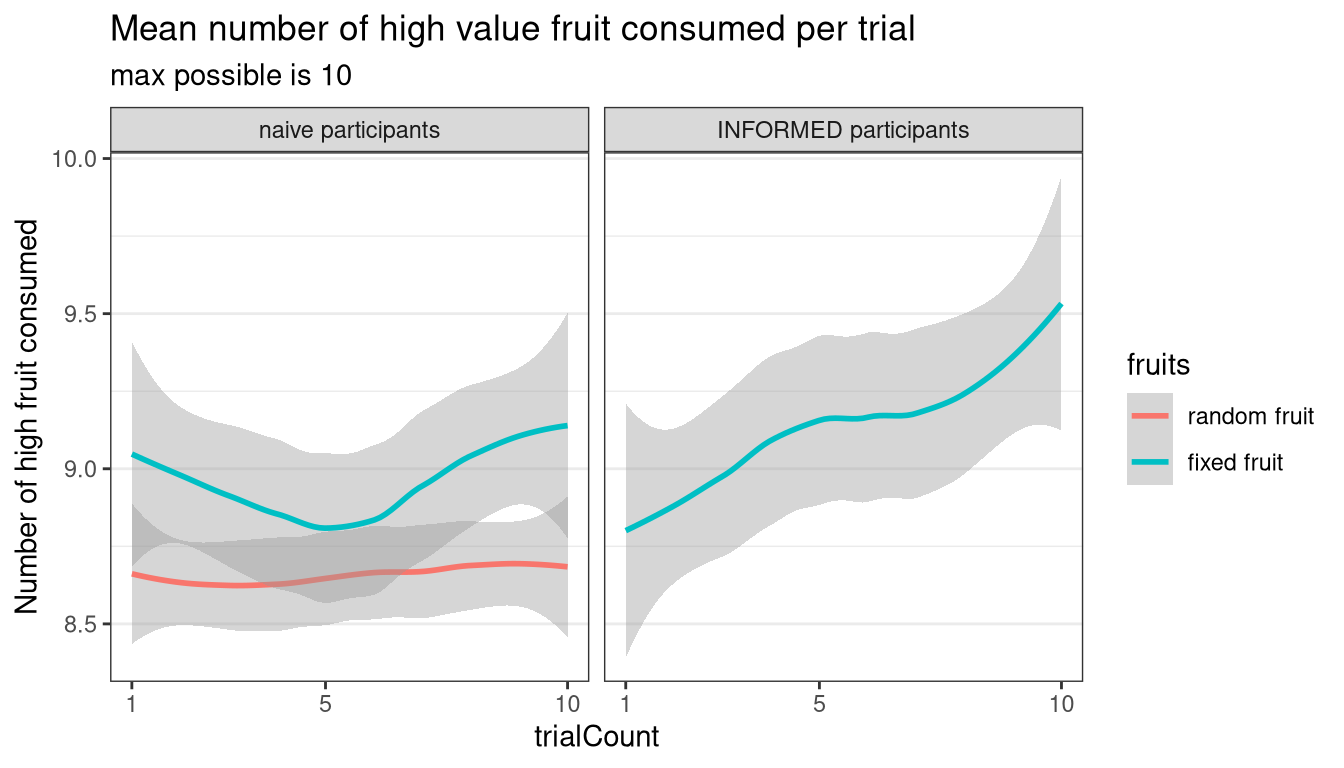
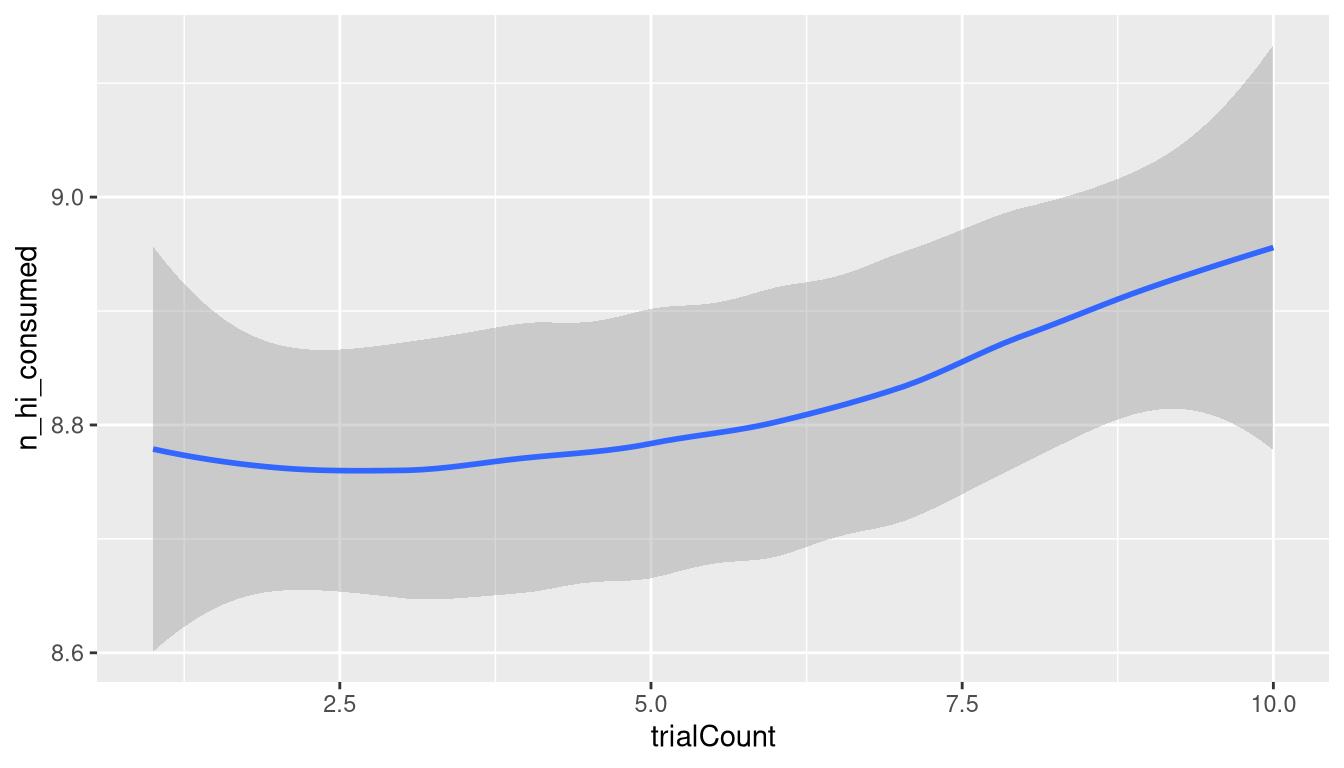
fg more plots

diff --git a/index.html b/index.html
@@ -931,17 +931,82 @@ language      word nonword
 </section>
 <section class="slide level2">
 
+<p>Quick and dirty first: slight improvement over trials before we distinguish between the conditions</p>
 <div class="cell">
-<div class="sourceCode cell-code" id="cb37"><pre class="sourceCode numberSource r number-lines code-with-copy"><code class="sourceCode r"><span id="cb37-1"><a href="#cb37-1"></a><span class="fu">ggplot</span>(data_foraging, <span class="fu">aes</span>(<span class="at">y=</span>n_hi_consumed, <span class="at">x=</span>trialCount, <span class="at">color=</span>fruits))<span class="sc">+</span></span>
-<span id="cb37-2"><a href="#cb37-2"></a>  <span class="fu">facet_grid</span>(<span class="sc">~</span>instructions)<span class="sc">+</span></span>
-<span id="cb37-3"><a href="#cb37-3"></a>  <span class="fu">geom_smooth</span>()<span class="sc">+</span></span>
-<span id="cb37-4"><a href="#cb37-4"></a>  <span class="fu">scale_x_continuous</span>(<span class="at">breaks=</span><span class="fu">c</span>(<span class="dv">1</span>,<span class="dv">5</span>,<span class="dv">10</span>))<span class="sc">+</span></span>
-<span id="cb37-5"><a href="#cb37-5"></a>  <span class="fu">ylab</span>(<span class="st">"Number of high fruit consumed"</span>)<span class="sc">+</span></span>
-<span id="cb37-6"><a href="#cb37-6"></a>  <span class="fu">labs</span>(<span class="at">title=</span><span class="st">"Mean number of high value fruit consumed per trial"</span>,<span class="at">subtitle =</span> <span class="st">"max possible is 10"</span>)<span class="sc">+</span></span>
-<span id="cb37-7"><a href="#cb37-7"></a>  <span class="fu">theme_bw</span>() <span class="sc">+</span> <span class="fu">theme</span>(<span class="at">panel.grid.major.x =</span> <span class="fu">element_blank</span>(), <span class="at">panel.grid.minor.x =</span> <span class="fu">element_blank</span>())</span></code><button title="Copy to Clipboard" class="code-copy-button"><i class="bi"></i></button></pre></div>
+<div class="sourceCode cell-code" id="cb37"><pre class="sourceCode numberSource r number-lines code-with-copy"><code class="sourceCode r"><span id="cb37-1"><a href="#cb37-1"></a><span class="fu">ggplot</span>(data_foraging, <span class="fu">aes</span>(<span class="at">y=</span>n_hi_consumed, <span class="at">x=</span>trialCount))<span class="sc">+</span></span>
+<span id="cb37-2"><a href="#cb37-2"></a>  <span class="fu">geom_smooth</span>()</span></code><button title="Copy to Clipboard" class="code-copy-button"><i class="bi"></i></button></pre></div>
 
 </div>
-<img data-src="index_files/figure-revealjs/unnamed-chunk-33-1.png" width="672" class="r-stretch"></section></section>
+<img data-src="index_files/figure-revealjs/unnamed-chunk-33-1.png" width="672" class="r-stretch"></section>
+<section class="slide level2">
+
+<p>Distinguish between fixed and random fruit: performance improves more over trials for fixed fruit</p>
+<div class="cell">
+<div class="sourceCode cell-code" id="cb38"><pre class="sourceCode numberSource r number-lines code-with-copy"><code class="sourceCode r"><span id="cb38-1"><a href="#cb38-1"></a><span class="fu">ggplot</span>(data_foraging, <span class="fu">aes</span>(<span class="at">y=</span>n_hi_consumed, <span class="at">x=</span>trialCount, <span class="at">colour=</span>fruits))<span class="sc">+</span></span>
+<span id="cb38-2"><a href="#cb38-2"></a>  <span class="fu">geom_smooth</span>()</span></code><button title="Copy to Clipboard" class="code-copy-button"><i class="bi"></i></button></pre></div>
+
+</div>
+<img data-src="index_files/figure-revealjs/unnamed-chunk-34-1.png" width="672" class="r-stretch"></section>
+<section class="slide level2">
+
+<p>Distinguish between naive and informed participants: performance is better for fixed fruit when participants are informed that the trees will be in the same place across trials (this primes them to remember where the trees are)</p>
+<div class="cell">
+<div class="sourceCode cell-code" id="cb39"><pre class="sourceCode numberSource r number-lines code-with-copy"><code class="sourceCode r"><span id="cb39-1"><a href="#cb39-1"></a><span class="fu">ggplot</span>(data_foraging, <span class="fu">aes</span>(<span class="at">y=</span>n_hi_consumed, <span class="at">x=</span>trialCount, <span class="at">colour=</span>fruits))<span class="sc">+</span></span>
+<span id="cb39-2"><a href="#cb39-2"></a>  <span class="fu">geom_smooth</span>()<span class="sc">+</span></span>
+<span id="cb39-3"><a href="#cb39-3"></a>  <span class="fu">facet_wrap</span>(<span class="sc">~</span>instructions)</span></code><button title="Copy to Clipboard" class="code-copy-button"><i class="bi"></i></button></pre></div>
+
+</div>
+<img data-src="index_files/figure-revealjs/unnamed-chunk-35-1.png" width="672" class="r-stretch"></section>
+<section class="slide level2">
+
+<p>Cosmetic adjustments</p>
+<div class="cell">
+<div class="sourceCode cell-code" id="cb40"><pre class="sourceCode numberSource r number-lines code-with-copy"><code class="sourceCode r"><span id="cb40-1"><a href="#cb40-1"></a><span class="fu">ggplot</span>(data_foraging, <span class="fu">aes</span>(<span class="at">y=</span>n_hi_consumed, <span class="at">x=</span>trialCount, <span class="at">color=</span>fruits))<span class="sc">+</span></span>
+<span id="cb40-2"><a href="#cb40-2"></a>  <span class="fu">facet_grid</span>(<span class="sc">~</span>instructions)<span class="sc">+</span></span>
+<span id="cb40-3"><a href="#cb40-3"></a>  <span class="fu">geom_smooth</span>()<span class="sc">+</span></span>
+<span id="cb40-4"><a href="#cb40-4"></a>  <span class="fu">scale_x_continuous</span>(<span class="at">breaks=</span><span class="fu">c</span>(<span class="dv">1</span>,<span class="dv">5</span>,<span class="dv">10</span>))<span class="sc">+</span></span>
+<span id="cb40-5"><a href="#cb40-5"></a>  <span class="fu">ylab</span>(<span class="st">"Number of high fruit consumed"</span>)<span class="sc">+</span></span>
+<span id="cb40-6"><a href="#cb40-6"></a>  <span class="fu">labs</span>(<span class="at">title=</span><span class="st">"Mean number of high value fruit consumed per trial"</span>, </span>
+<span id="cb40-7"><a href="#cb40-7"></a>       <span class="at">subtitle =</span> <span class="st">"max possible is 10"</span>)<span class="sc">+</span></span>
+<span id="cb40-8"><a href="#cb40-8"></a>  <span class="fu">theme_bw</span>() <span class="sc">+</span> </span>
+<span id="cb40-9"><a href="#cb40-9"></a>  <span class="fu">theme</span>(<span class="at">panel.grid.major.x =</span> <span class="fu">element_blank</span>(), <span class="at">panel.grid.minor.x =</span> <span class="fu">element_blank</span>())<span class="sc">+</span><span class="co">#, aspect.ratio = 1)+</span></span>
+<span id="cb40-10"><a href="#cb40-10"></a>  <span class="fu">scale_color_manual</span>(<span class="at">values =</span> <span class="fu">c</span>(<span class="st">"red"</span>, <span class="st">"blue"</span>))</span></code><button title="Copy to Clipboard" class="code-copy-button"><i class="bi"></i></button></pre></div>
+<div class="cell-output-display">
+<p><img data-src="index_files/figure-revealjs/unnamed-chunk-36-1.png" style="width:12in;height:4in"></p>
+</div>
+</div>
+</section>
+<section class="slide level2">
+
+<p>Switch from LOESS regression to linear regression using <code>method='lm'</code></p>
+<div class="cell">
+<div class="sourceCode cell-code" id="cb41"><pre class="sourceCode numberSource r number-lines code-with-copy"><code class="sourceCode r"><span id="cb41-1"><a href="#cb41-1"></a><span class="fu">ggplot</span>(data_foraging, <span class="fu">aes</span>(<span class="at">y=</span>n_hi_consumed, <span class="at">x=</span>trialCount, <span class="at">color=</span>fruits))<span class="sc">+</span></span>
+<span id="cb41-2"><a href="#cb41-2"></a>  <span class="fu">facet_grid</span>(<span class="sc">~</span>instructions)<span class="sc">+</span></span>
+<span id="cb41-3"><a href="#cb41-3"></a>  <span class="fu">geom_smooth</span>(<span class="at">method=</span><span class="st">'lm'</span>)<span class="sc">+</span></span>
+<span id="cb41-4"><a href="#cb41-4"></a>  <span class="fu">scale_x_continuous</span>(<span class="at">breaks=</span><span class="fu">c</span>(<span class="dv">1</span>,<span class="dv">5</span>,<span class="dv">10</span>))<span class="sc">+</span></span>
+<span id="cb41-5"><a href="#cb41-5"></a>  <span class="fu">ylab</span>(<span class="st">"Number of high fruit consumed"</span>)<span class="sc">+</span></span>
+<span id="cb41-6"><a href="#cb41-6"></a>  <span class="fu">labs</span>(<span class="at">title=</span><span class="st">"Mean number of high value fruit consumed per trial"</span>, </span>
+<span id="cb41-7"><a href="#cb41-7"></a>       <span class="at">subtitle =</span> <span class="st">"max possible is 10"</span>)<span class="sc">+</span></span>
+<span id="cb41-8"><a href="#cb41-8"></a>  <span class="fu">theme_bw</span>() <span class="sc">+</span> </span>
+<span id="cb41-9"><a href="#cb41-9"></a>  <span class="fu">theme</span>(<span class="at">panel.grid.major.x =</span> <span class="fu">element_blank</span>(), <span class="at">panel.grid.minor.x =</span> <span class="fu">element_blank</span>())<span class="sc">+</span><span class="co">#, aspect.ratio = 1)+</span></span>
+<span id="cb41-10"><a href="#cb41-10"></a>  <span class="fu">scale_color_manual</span>(<span class="at">values =</span> <span class="fu">c</span>(<span class="st">"red"</span>, <span class="st">"blue"</span>))</span></code><button title="Copy to Clipboard" class="code-copy-button"><i class="bi"></i></button></pre></div>
+<div class="cell-output-display">
+<p><img data-src="index_files/figure-revealjs/unnamed-chunk-37-1.png" style="width:12in;height:4in"></p>
+</div>
+</div>
+</section>
+<section class="slide level2">
+
+<p>An alternative using points and lines</p>
+<div class="cell">
+<div class="sourceCode cell-code" id="cb42"><pre class="sourceCode numberSource r number-lines code-with-copy"><code class="sourceCode r"><span id="cb42-1"><a href="#cb42-1"></a><span class="fu">ggplot</span>(data_foraging, <span class="fu">aes</span>(<span class="at">y=</span>n_hi_consumed, <span class="at">x=</span>trialCount, <span class="at">colour=</span>fruits))<span class="sc">+</span></span>
+<span id="cb42-2"><a href="#cb42-2"></a>  <span class="fu">stat_summary</span>(<span class="at">geom=</span><span class="st">'point'</span>,<span class="at">position=</span><span class="fu">position_dodge</span>(<span class="at">width=</span><span class="fl">0.2</span>))<span class="sc">+</span></span>
+<span id="cb42-3"><a href="#cb42-3"></a>  <span class="fu">stat_summary</span>(<span class="at">geom=</span><span class="st">'line'</span>,<span class="at">position=</span><span class="fu">position_dodge</span>(<span class="at">width=</span><span class="fl">0.2</span>))<span class="sc">+</span></span>
+<span id="cb42-4"><a href="#cb42-4"></a>  <span class="fu">facet_wrap</span>(<span class="sc">~</span>instructions)<span class="sc">+</span></span>
+<span id="cb42-5"><a href="#cb42-5"></a>  <span class="fu">theme_bw</span>()</span></code><button title="Copy to Clipboard" class="code-copy-button"><i class="bi"></i></button></pre></div>
+
+</div>
+<img data-src="index_files/figure-revealjs/unnamed-chunk-38-1.png" width="672" class="r-stretch"></section></section>
 <section>
 <section id="i-want-to-export-my-plot" class="title-slide slide level1 center" data-number="8">
 <h1><span class="header-section-number">8</span> I want to export my plot</h1>
@@ -955,18 +1020,18 @@ language      word nonword
 <li>First run the code that generates the plot</li>
 </ul>
 <div class="cell">
-<div class="sourceCode cell-code" id="cb38"><pre class="sourceCode numberSource r number-lines code-with-copy"><code class="sourceCode r"><span id="cb38-1"><a href="#cb38-1"></a><span class="co"># the next 3 lines are all assignments so they don't produce output</span></span>
-<span id="cb38-2"><a href="#cb38-2"></a>myaxes <span class="ot">=</span> <span class="fu">ggplot</span>(data_ldt, <span class="fu">aes</span>(<span class="at">y=</span>rt,  <span class="at">x=</span>condition, <span class="at">fill=</span>language))</span>
-<span id="cb38-3"><a href="#cb38-3"></a>myplot <span class="ot">=</span> myaxes <span class="sc">+</span> <span class="fu">geom_violin</span>()</span>
-<span id="cb38-4"><a href="#cb38-4"></a>myplot <span class="ot">=</span> myplot <span class="sc">+</span> <span class="fu">facet_wrap</span>(<span class="sc">~</span>language)</span>
-<span id="cb38-5"><a href="#cb38-5"></a><span class="co"># the next line produces the whole plot as output</span></span>
-<span id="cb38-6"><a href="#cb38-6"></a>myplot</span></code><button title="Copy to Clipboard" class="code-copy-button"><i class="bi"></i></button></pre></div>
+<div class="sourceCode cell-code" id="cb43"><pre class="sourceCode numberSource r number-lines code-with-copy"><code class="sourceCode r"><span id="cb43-1"><a href="#cb43-1"></a><span class="co"># the next 3 lines are all assignments so they don't produce output</span></span>
+<span id="cb43-2"><a href="#cb43-2"></a>myaxes <span class="ot">=</span> <span class="fu">ggplot</span>(data_ldt, <span class="fu">aes</span>(<span class="at">y=</span>rt,  <span class="at">x=</span>condition, <span class="at">fill=</span>language))</span>
+<span id="cb43-3"><a href="#cb43-3"></a>myplot <span class="ot">=</span> myaxes <span class="sc">+</span> <span class="fu">geom_violin</span>()</span>
+<span id="cb43-4"><a href="#cb43-4"></a>myplot <span class="ot">=</span> myplot <span class="sc">+</span> <span class="fu">facet_wrap</span>(<span class="sc">~</span>language)</span>
+<span id="cb43-5"><a href="#cb43-5"></a><span class="co"># the next line produces the whole plot as output</span></span>
+<span id="cb43-6"><a href="#cb43-6"></a>myplot</span></code><button title="Copy to Clipboard" class="code-copy-button"><i class="bi"></i></button></pre></div>
 </div>
 <ul>
 <li>now we can say <code>ggsave</code> which saves the most recently generated plot to file.</li>
 </ul>
 <div class="cell">
-<div class="sourceCode cell-code" id="cb39"><pre class="sourceCode numberSource r number-lines code-with-copy"><code class="sourceCode r"><span id="cb39-1"><a href="#cb39-1"></a><span class="fu">ggsave</span>(<span class="at">filename =</span> <span class="st">"Figure1.png"</span>, <span class="at">width=</span><span class="dv">7</span>, <span class="at">height=</span><span class="dv">4</span>)</span></code><button title="Copy to Clipboard" class="code-copy-button"><i class="bi"></i></button></pre></div>
+<div class="sourceCode cell-code" id="cb44"><pre class="sourceCode numberSource r number-lines code-with-copy"><code class="sourceCode r"><span id="cb44-1"><a href="#cb44-1"></a><span class="fu">ggsave</span>(<span class="at">filename =</span> <span class="st">"Figure1.png"</span>, <span class="at">width=</span><span class="dv">7</span>, <span class="at">height=</span><span class="dv">4</span>)</span></code><button title="Copy to Clipboard" class="code-copy-button"><i class="bi"></i></button></pre></div>
 </div>
 </section>
 <section id="test-second-level-header" class="slide level2" data-number="8.1">
